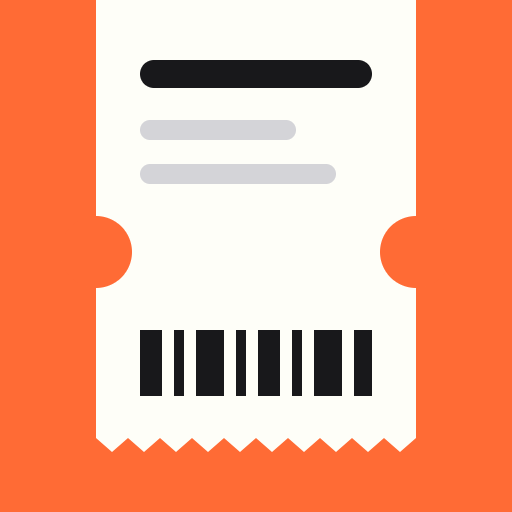
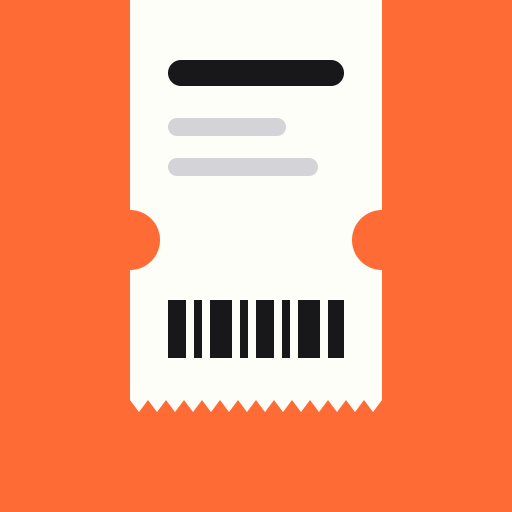
Icono con mas margen, y fuera el aviso de "fotos proximamente"
El icono se instala tal cual el nuevo: mismo diseno de codigo de barras,
con mas aire alrededor del ticket.

Y fuera el aviso "Pronto podras ver aqui la foto original de cada
ticket" del final del grupo. Ya no aplica: las fotos funcionan desde el
historial, con su boton de camara en cada ticket que las tiene.

Changed region(s): [[0.1875, 0.0, 0.8125, 0.875]]

diff --git a/public/css/style.css b/public/css/style.css
@@ -2722,17 +2722,6 @@ input[type="file"] { display: none; }
   background: rgba(255,107,53,.05);
 }
 
-/* Subtitulo dentro de un apartado (OTROS GASTOS, TICKETS SIN CERRAR) */
-/* Aviso discreto dentro del historial, donde se buscarian las fotos */
-.soon-inline {
-  font-family: var(--sans);
-  font-size: 0.6rem;
-  font-style: italic;
-  color: var(--gray-400);
-  padding: 8px 2px 2px;
-  text-align: center;
-}
-
 /* Nombre ya cogido por otro movil. Se ve —para saber quien esta dentro— pero
    no se puede tocar: es lo que impide suplantar a alguien y quedarse con sus
    gastos. */
@@ -2968,7 +2957,6 @@ body.en-grupo .upload-area { padding-top: 6px; }
 .pantalla-grupo .stat-row { padding: 8px 2px; }
 .pantalla-grupo .stat-k { font-size: 0.78rem; }
 .pantalla-grupo .stat-v { font-size: 0.84rem; }
-.pantalla-grupo .soon-inline { font-size: 0.7rem; }
 .pantalla-grupo .tpl-panel textarea { font-size: 0.8rem; }
 .pantalla-grupo .tpl-preview { font-size: 0.74rem; }
 

diff --git a/public/group.html b/public/group.html
@@ -254,12 +254,6 @@
           </button>
           <div class="sec-body" id="statsBlock"></div>
 
-          <hr class="dash-sep">
-
-          <div class="soon-inline" id="fotosProximamente">
-            📷 Pronto podrás ver aquí la foto original de cada ticket
-          </div>
-
         </div>
         <div class="ticket-zigzag"></div>
       </div>
